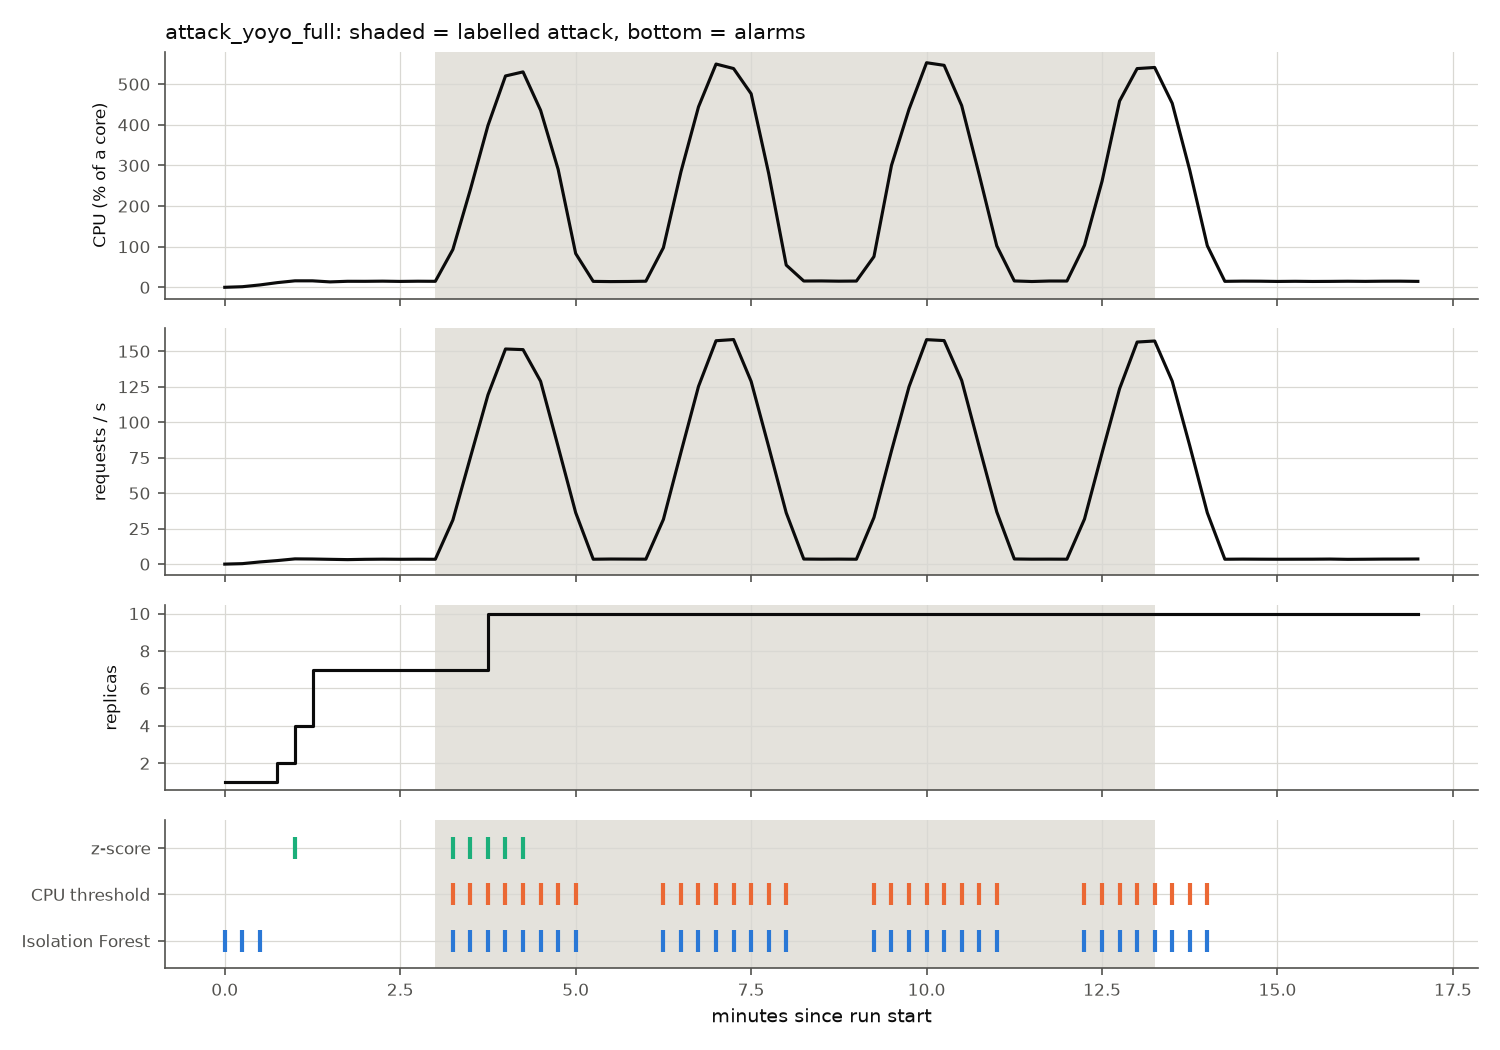
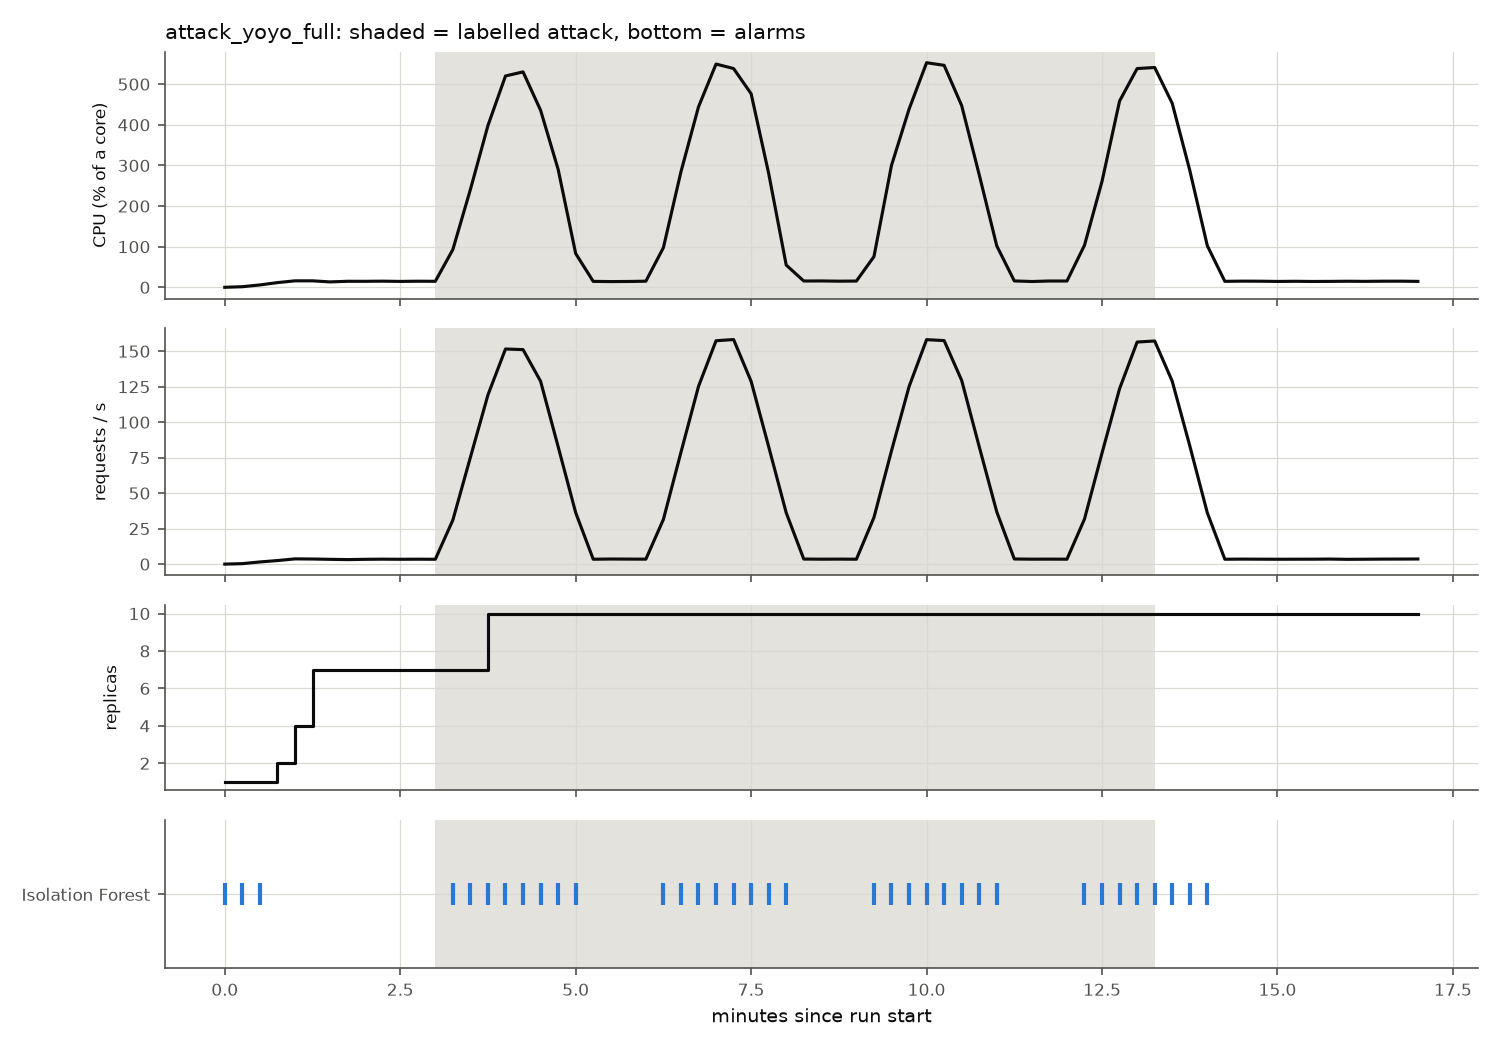
Remove the CPU threshold and z-score baselines, evaluate the Isolation Forest only

diff --git a/evaluate.py b/evaluate.py
@@ -1,5 +1,5 @@
 #!/usr/bin/env python3
-"""Train, tune and evaluate the Isolation Forest against two baselines, following the course
+"""Train, tune and evaluate the Isolation Forest, following the course
 pipeline: split -> fit preprocessing on train only -> train -> tune on validation -> finalize ->
 evaluate once on test.
 
@@ -13,7 +13,7 @@ Steps
   3  train on normal rows of the train runs only; the scaler is fitted on those rows only
   4  contamination sweep on validation (contamination = share of NORMAL training rows that the
      model is allowed to flag, because the training data has no attacks)
-  5  tune the baselines on the same validation runs; feature-set ablation; plots; report
+  5  feature-set ablation on the same validation runs; plots; report
   6  (--final) refit with the chosen settings on train + the normal validation runs
   7  (--final) score the test runs once, write the metrics, save the model
 
@@ -24,7 +24,7 @@ because the autoscaler is still recovering from the attack then. The Isolation F
 its numbers are the mean (and std) over 5 seeds.
 
 Outputs in --out (default results/): report.md, selected.json, contamination_sweep.csv/.png,
-baselines.csv, ablation.csv, timeline_<run>.png, and after --final: test_metrics.csv,
+validation_metrics.csv, ablation.csv, timeline_<run>.png, and after --final: test_metrics.csv,
 final_report.md, test_log.csv, and data/isolation_forest_v2.joblib. Both steps also save
 <split>_confusion_matrix.png, <split>_roc_curve.png and <split>_pr_curve.png (lecture slides 9-12).
 """
@@ -62,8 +62,6 @@ FEATURE_SETS = {
 DEFAULT_FEATURES = "B_extended"
 CONTAMINATIONS = [0.005, 0.01, 0.02, 0.03, 0.05, 0.075, 0.1, 0.15, 0.2]
 SEEDS = [0, 1, 2, 3, 4]
-Z_WINDOWS = [8, 20, 40]                  # rows (2, 5, 10 minutes at 15 s)
-Z_KS = np.round(np.arange(1.5, 8.01, 0.25), 2)
 MODEL_PATH = os.path.join("data", "isolation_forest_v2.joblib")
 
 # chart colours (categorical slots 1-4 of the default validated palette)
@@ -173,42 +171,6 @@ def iforest_outputs(model, X):
     return model.predict(X) == -1, -model.score_samples(X)
 
 
-def zscore(df, window):
-    """Largest upward z-score of CPU and request rate vs the previous `window` rows of the same run."""
-    out = np.zeros(len(df))
-    for _, g in df.groupby("run"):
-        zs = []
-        for c in ["cpu_utilization", "request_rate"]:
-            x = g[c]
-            prev = x.shift(1).rolling(window, min_periods=4)
-            sd = np.maximum(prev.std(), 0.05 * prev.mean().abs() + 0.5)  # floor: steady signals
-            zs.append(((x - prev.mean()) / sd).fillna(0))
-        out[g.index.to_numpy()] = np.maximum(*zs)
-    return out
-
-
-def tune_threshold(df, score, keep, candidates):
-    best = None
-    for t in candidates:
-        m = evaluate_flags(df, score > t, score, keep)
-        if best is None or (m["f1"], -m["fpr"]) > (best[1]["f1"], -best[1]["fpr"]):
-            best = (float(t), m)
-    return best
-
-
-def tune_baselines(val, keep):
-    cpu = val["cpu_utilization"].to_numpy()
-    cands = np.unique(np.quantile(cpu, np.linspace(0.3, 0.999, 300)))
-    t_cpu, m_cpu = tune_threshold(val, cpu, keep, cands)
-    best_z = None
-    for w in Z_WINDOWS:
-        z = zscore(val, w)
-        k, m = tune_threshold(val, z, keep, Z_KS)
-        if best_z is None or (m["f1"], -m["fpr"]) > (best_z[2]["f1"], -best_z[2]["fpr"]):
-            best_z = (w, k, m)
-    return {"cpu_threshold": t_cpu, "z_window": best_z[0], "z_k": best_z[1]}, m_cpu, best_z[2]
-
-
 def sweep(train_X, val, val_X, keep):
     rows = []
     for c in CONTAMINATIONS:
@@ -264,7 +226,7 @@ def plot_eval_figs(df, keep, dets, prefix, out_dir, synthetic):
     tag = "  [SYNTHETIC]" if synthetic else ""
     split = prefix.rstrip("_")
 
-    fig, axes = plt.subplots(1, len(dets), figsize=(3.6 * len(dets), 3.4))
+    fig, axes = plt.subplots(1, len(dets), figsize=(max(3.6 * len(dets), 5.5), 3.4))
     for ax, (name, flag, _, _) in zip(np.atleast_1d(axes), dets):
         f = np.asarray(flag, dtype=bool)[keep]
         # same layout as the lecture: rows = actual (attack, normal), columns = predicted (attack, normal)
@@ -437,13 +399,10 @@ def tuning(args):
                f"Isolation Forest on validation ({args.features}), mean of {len(SEEDS)} seeds"
                + ("  [SYNTHETIC]" if synthetic else ""))
 
-    print("step 5: baselines and feature ablation")
-    params, m_cpu, m_z = tune_baselines(val, keep)
+    print("step 5: feature ablation")
     if_val = sw[sw["contamination"] == chosen].iloc[0].to_dict()
-    base_rows = [dict(detector=f"Isolation Forest ({args.features}, c={chosen:g})", **if_val),
-                 dict(detector=f"CPU threshold (> {params['cpu_threshold']:.1f}%)", **m_cpu),
-                 dict(detector=f"rolling z-score (window {params['z_window']}, k={params['z_k']})", **m_z)]
-    pd.DataFrame(base_rows).to_csv(os.path.join(args.out, "baselines.csv"), index=False)
+    val_rows = [dict(detector=f"Isolation Forest ({args.features}, c={chosen:g})", **if_val)]
+    pd.DataFrame(val_rows).to_csv(os.path.join(args.out, "validation_metrics.csv"), index=False)
 
     abl = []
     for name, cols in FEATURE_SETS.items():
@@ -459,23 +418,16 @@ def tuning(args):
 
     if_outs = [iforest_outputs(fit_iforest(tr[feats], chosen, s), val[feats]) for s in SEEDS]
     f_if = if_outs[0][0]
-    z = zscore(val, params["z_window"])
-    cpu_v = val["cpu_utilization"].to_numpy()
-    run_rows = per_run(val, keep, [("Isolation Forest", if_outs), ("CPU threshold", [(cpu_v > params["cpu_threshold"], cpu_v)]),
-                                   ("z-score", [(z > params["z_k"], z)])])
+    run_rows = per_run(val, keep, [("Isolation Forest", if_outs)])
     pd.DataFrame(run_rows).to_csv(os.path.join(args.out, "per_run_validation.csv"), index=False)
-    plot_eval_figs(val, keep, [("Isolation Forest", f_if, if_outs[0][1], C_IF),
-                               ("CPU threshold", cpu_v > params["cpu_threshold"], cpu_v, C_CPU),
-                               ("z-score", z > params["z_k"], z, C_Z)], "validation_", args.out, synthetic)
+    plot_eval_figs(val, keep, [("Isolation Forest", f_if, if_outs[0][1], C_IF)], "validation_", args.out, synthetic)
     for run_name, run in val.groupby("run"):
         idx = run.index.to_numpy()
-        plot_timeline(run, [("Isolation Forest", f_if[idx], C_IF),
-                            ("CPU threshold", val["cpu_utilization"].to_numpy()[idx] > params["cpu_threshold"], C_CPU),
-                            ("z-score", z[idx] > params["z_k"], C_Z)],
+        plot_timeline(run, [("Isolation Forest", f_if[idx], C_IF)],
                       os.path.join(args.out, f"timeline_{run_name}.png"), synthetic)
 
     selected = dict(features=args.features, feature_list=feats, contamination=chosen, grace_s=args.grace,
-                    seeds=SEEDS, data=args.data, synthetic=synthetic, **params,
+                    seeds=SEEDS, data=args.data, synthetic=synthetic,
                     chosen_on=time.strftime("%Y-%m-%d %H:%M"))
     with open(os.path.join(args.out, "selected.json"), "w") as f:
         json.dump(selected, f, indent=2)
@@ -496,8 +448,8 @@ def tuning(args):
             f"\nChosen: **{chosen:g}**. Plot: `contamination_sweep.png`.\n",
             "Confusion matrices, ROC and precision-recall curves on validation (Isolation Forest seed 0): "
             "`validation_confusion_matrix.png`, `validation_roc_curve.png`, `validation_pr_curve.png`.\n",
-            "## Detectors on validation (each tuned on these runs)\n",
-            table(base_rows, [("detector", lambda r: r["detector"])] + METRIC_COLS),
+            "## Model on validation\n",
+            table(val_rows, [("detector", lambda r: r["detector"])] + METRIC_COLS),
             "\n## Per workload (each validation run)\n",
             "FPR on a normal run = share of its rows flagged by mistake. Recall and episodes only apply to attack runs.\n",
             table(run_rows, RUN_COLS),
@@ -511,8 +463,7 @@ def tuning(args):
             "\nNext: when these choices are final, run `python3 evaluate.py --final` once.\n"]
     with open(os.path.join(args.out, "report.md"), "w") as f:
         f.write("\n".join(rep))
-    print(f"chosen contamination {chosen:g}; validation F1 IF {if_val['f1']:.3f}, "
-          f"CPU threshold {m_cpu['f1']:.3f}, z-score {m_z['f1']:.3f}")
+    print(f"chosen contamination {chosen:g}; validation F1 {if_val['f1']:.3f}")
     print(f"wrote {args.out}/report.md (and csv/png files)")
 
 
@@ -546,12 +497,7 @@ def final(args):
         models.append(m)
         per_seed.append(evaluate_flags(test, *iforest_outputs(m, test[feats]), keep))
     if_mean, if_std = mean_std(per_seed)
-    cpu = test["cpu_utilization"].to_numpy()
-    z = zscore(test, sel["z_window"])
-    m_cpu = evaluate_flags(test, cpu > sel["cpu_threshold"], cpu, keep)
-    m_z = evaluate_flags(test, z > sel["z_k"], z, keep)
-    rows = [dict(detector="Isolation Forest", **if_mean), dict(detector="CPU threshold", **m_cpu),
-            dict(detector="rolling z-score", **m_z)]
+    rows = [dict(detector="Isolation Forest", **if_mean)]
     pd.DataFrame(rows).to_csv(os.path.join(args.out, "test_metrics.csv"), index=False)
 
     by_kind = []
@@ -561,24 +507,15 @@ def final(args):
         ks = keep[sub_idx]
         res = [evaluate_flags(sub, *iforest_outputs(mm, sub[feats]), ks) for mm in models]
         by_kind.append(dict(detector=f"Isolation Forest, {kind} only", **mean_std(res)[0]))
-        by_kind.append(dict(detector=f"CPU threshold, {kind} only",
-                            **evaluate_flags(sub, sub["cpu_utilization"] > sel["cpu_threshold"],
-                                             sub["cpu_utilization"], ks)))
-        zz = z[sub_idx]
-        by_kind.append(dict(detector=f"z-score, {kind} only", **evaluate_flags(sub, zz > sel["z_k"], zz, ks)))
 
     if_outs = [iforest_outputs(mm, test[feats]) for mm in models]
     f_if = if_outs[0][0]
-    run_rows = per_run(test, keep, [("Isolation Forest", if_outs), ("CPU threshold", [(cpu > sel["cpu_threshold"], cpu)]),
-                                    ("z-score", [(z > sel["z_k"], z)])])
+    run_rows = per_run(test, keep, [("Isolation Forest", if_outs)])
     pd.DataFrame(run_rows).to_csv(os.path.join(args.out, "per_run_test.csv"), index=False)
-    plot_eval_figs(test, keep, [("Isolation Forest", f_if, if_outs[0][1], C_IF),
-                                ("CPU threshold", cpu > sel["cpu_threshold"], cpu, C_CPU),
-                                ("z-score", z > sel["z_k"], z, C_Z)], "test_", args.out, synthetic)
+    plot_eval_figs(test, keep, [("Isolation Forest", f_if, if_outs[0][1], C_IF)], "test_", args.out, synthetic)
     for run_name, run in test.groupby("run"):
         idx = run.index.to_numpy()
-        plot_timeline(run, [("Isolation Forest", f_if[idx], C_IF), ("CPU threshold", cpu[idx] > sel["cpu_threshold"], C_CPU),
-                            ("z-score", z[idx] > sel["z_k"], C_Z)],
+        plot_timeline(run, [("Isolation Forest", f_if[idx], C_IF)],
                       os.path.join(args.out, f"test_timeline_{run_name}.png"), synthetic)
 
     if not synthetic:
@@ -594,9 +531,7 @@ def final(args):
     if synthetic:
         rep.append("> **SYNTHETIC practice data from simulate_runs.py. These numbers are not results.**\n")
     rep += [f"Settings fixed on validation ({sel['chosen_on']}): features {sel['features']} "
-            f"({', '.join(feats)}), contamination {sel['contamination']:g}, CPU threshold "
-            f"{sel['cpu_threshold']:.1f}%, z-score window {sel['z_window']} rows, k={sel['z_k']}, "
-            f"grace {sel['grace_s']:.0f} s.\n",
+            f"({', '.join(feats)}), contamination {sel['contamination']:g}, grace {sel['grace_s']:.0f} s.\n",
             f"Isolation Forest refitted on {len(fit_rows)} normal rows: {', '.join(sorted(fit_rows['run'].unique()))}.\n",
             "## Test split\n", data_summary(df[df["split"] == "test"]),
             "\n## All test runs\n", table(rows, [("detector", lambda r: r["detector"])] + METRIC_COLS),
@@ -613,9 +548,10 @@ def final(args):
     with open(os.path.join(args.out, "final_report.md"), "w") as f:
         f.write("\n".join(rep))
     log = pd.DataFrame([dict(when=time.strftime("%Y-%m-%d %H:%M:%S"), data=args.data, features=sel["features"],
-                             contamination=sel["contamination"], f1_iforest=if_mean["f1"],
-                             f1_cpu=m_cpu["f1"], f1_z=m_z["f1"])])
-    log.to_csv(log_path, mode="a", header=not os.path.exists(log_path), index=False)
+                             contamination=sel["contamination"], f1_iforest=if_mean["f1"])])
+    if os.path.exists(log_path):
+        log = pd.concat([pd.read_csv(log_path), log], ignore_index=True)
+    log.to_csv(log_path, index=False)
     for r in rows:
         print(f"  {r['detector']:<18} precision {r['precision']:.3f}  recall {r['recall']:.3f}  "
               f"F1 {r['f1']:.3f}  FPR {r['fpr']:.3f}  episodes {r['episodes_detected']:.1f}/{r['episodes']:.0f}")

diff --git a/results/final_report.md b/results/final_report.md
@@ -1,6 +1,6 @@
 # Test results (steps 6-7, evaluated once)
 
-Settings fixed on validation (2026-11-04 21:47): features B_extended (replicas, cpu_utilization, request_rate, cpu_per_request, latency_p95_s, replica_changes_5m, cpu_std_5m), contamination 0.03, CPU threshold 34.5%, z-score window 20 rows, k=2.0, grace 60 s.
+Settings fixed on validation (2026-11-05 15:34): features B_extended (replicas, cpu_utilization, request_rate, cpu_per_request, latency_p95_s, replica_changes_5m, cpu_std_5m), contamination 0.03, grace 60 s.
 
 Isolation Forest refitted on 215 normal rows: normal_ramp_full, normal_steady_full, normal_wave_full.
 
@@ -18,8 +18,6 @@ Isolation Forest refitted on 215 normal rows: normal_ramp_full, normal_steady_fu
 | detector | precision | recall | F1 | FPR | ROC AUC | avg precision | episodes found | mean latency s |
 |---|---|---|---|---|---|---|---|---|
 | Isolation Forest | 0.784 | 0.769 | 0.776 | 0.106 | 0.845 | 0.770 | 3.0/3 | 15 |
-| CPU threshold | 0.806 | 0.769 | 0.787 | 0.092 | 0.891 | 0.885 | 3.0/3 | 15 |
-| rolling z-score | 0.692 | 0.277 | 0.396 | 0.062 | 0.715 | 0.625 | 3.0/3 | 20 |
 
 
 Isolation Forest: mean of 5 seeds (std: precision ±0.009, recall ±0.000, f1 ±0.005, fpr ±0.006).
@@ -34,14 +32,8 @@ FPR on a normal run = share of its rows flagged by mistake. Recall and episodes 
 | run | detector | FPR | recall | episodes found | mean latency s |
 |---|---|---|---|---|---|
 | attack_heavy_full | Isolation Forest | 0.045 | 0.917 | 2.0/2 | 15 |
-| attack_heavy_full | CPU threshold | 0.000 | 0.917 | 2.0/2 | 15 |
-| attack_heavy_full | z-score | 0.000 | 0.542 | 2.0/2 | 22 |
 | attack_yoyo_full | Isolation Forest | 0.108 | 0.683 | 1.0/1 | 15 |
-| attack_yoyo_full | CPU threshold | 0.000 | 0.683 | 1.0/1 | 15 |
-| attack_yoyo_full | z-score | 0.042 | 0.122 | 1.0/1 | 15 |
 | normal_bursts_full | Isolation Forest | 0.158 | n/a | - | n/a |
-| normal_bursts_full | CPU threshold | 0.211 | n/a | - | n/a |
-| normal_bursts_full | z-score | 0.123 | n/a | - | n/a |
 
 
 ## Per attack type (normal test rows + that attack's rows)
@@ -49,11 +41,7 @@ FPR on a normal run = share of its rows flagged by mistake. Recall and episodes 
 | detector | precision | recall | F1 | FPR | ROC AUC | avg precision | episodes found | mean latency s |
 |---|---|---|---|---|---|---|---|---|
 | Isolation Forest, heavy only | 0.615 | 0.917 | 0.736 | 0.106 | 0.944 | 0.704 | 2.0/2 | 15 |
-| CPU threshold, heavy only | 0.647 | 0.917 | 0.759 | 0.092 | 0.937 | 0.911 | 2.0/2 | 15 |
-| z-score, heavy only | 0.619 | 0.542 | 0.578 | 0.062 | 0.906 | 0.665 | 2.0/2 | 22 |
 | Isolation Forest, yoyo only | 0.670 | 0.683 | 0.676 | 0.106 | 0.787 | 0.661 | 1.0/1 | 15 |
-| CPU threshold, yoyo only | 0.700 | 0.683 | 0.691 | 0.092 | 0.865 | 0.814 | 1.0/1 | 15 |
-| z-score, yoyo only | 0.385 | 0.122 | 0.185 | 0.062 | 0.603 | 0.400 | 1.0/1 | 15 |
 
 
 The yo-yo episode is labelled as one window including its quiet halves, so its row recall understates detection; episode recall is the fairer figure. Episode counts are small.

diff --git a/results/report.md b/results/report.md
@@ -38,13 +38,11 @@ Chosen: **0.03**. Plot: `contamination_sweep.png`.
 
 Confusion matrices, ROC and precision-recall curves on validation (Isolation Forest seed 0): `validation_confusion_matrix.png`, `validation_roc_curve.png`, `validation_pr_curve.png`.
 
-## Detectors on validation (each tuned on these runs)
+## Model on validation
 
 | detector | precision | recall | F1 | FPR | ROC AUC | avg precision | episodes found | mean latency s |
 |---|---|---|---|---|---|---|---|---|
 | Isolation Forest (B_extended, c=0.03) | 0.846 | 0.917 | 0.880 | 0.031 | 0.912 | 0.715 | 2.0/2 | 15 |
-| CPU threshold (> 34.5%) | 1.000 | 0.917 | 0.957 | 0.000 | 0.963 | 0.941 | 2.0/2 | 15 |
-| rolling z-score (window 20, k=2.0) | 0.684 | 0.542 | 0.605 | 0.046 | 0.890 | 0.707 | 2.0/2 | 22 |
 
 
 ## Per workload (each validation run)
@@ -54,11 +52,7 @@ FPR on a normal run = share of its rows flagged by mistake. Recall and episodes 
 | run | detector | FPR | recall | episodes found | mean latency s |
 |---|---|---|---|---|---|
 | attack_flood_full | Isolation Forest | 0.041 | 0.917 | 2.0/2 | 15 |
-| attack_flood_full | CPU threshold | 0.000 | 0.917 | 2.0/2 | 15 |
-| attack_flood_full | z-score | 0.000 | 0.542 | 2.0/2 | 22 |
 | normal_wave_full | Isolation Forest | 0.025 | n/a | - | n/a |
-| normal_wave_full | CPU threshold | 0.000 | n/a | - | n/a |
-| normal_wave_full | z-score | 0.074 | n/a | - | n/a |
 
 
 ## Feature ablation (validation, each set with its own best contamination)

diff --git a/results_pilot/report.md b/results_pilot/report.md
@@ -33,13 +33,11 @@ Chosen: **0.2**. Plot: `contamination_sweep.png`.
 
 Confusion matrices, ROC and precision-recall curves on validation (Isolation Forest seed 0): `validation_confusion_matrix.png`, `validation_roc_curve.png`, `validation_pr_curve.png`.
 
-## Detectors on validation (each tuned on these runs)
+## Model on validation
 
 | detector | precision | recall | F1 | FPR | ROC AUC | avg precision | episodes found | mean latency s |
 |---|---|---|---|---|---|---|---|---|
 | Isolation Forest (B_extended, c=0.2) | 0.479 | 0.520 | 0.493 | 0.267 | 0.667 | 0.551 | 1.4/2 | 16 |
-| CPU threshold (> 15.7%) | 1.000 | 0.900 | 0.947 | 0.000 | 0.967 | 0.967 | 2.0/2 | 9 |
-| rolling z-score (window 8, k=2.25) | 1.000 | 0.700 | 0.824 | 0.000 | 0.893 | 0.891 | 2.0/2 | 24 |
 
 
 ## Per workload (each validation run)
@@ -49,8 +47,6 @@ FPR on a normal run = share of its rows flagged by mistake. Recall and episodes 
 | run | detector | FPR | recall | episodes found | mean latency s |
 |---|---|---|---|---|---|
 | attack_flood | Isolation Forest | 0.267 | 0.520 | 1.4/2 | 16 |
-| attack_flood | CPU threshold | 0.000 | 0.900 | 2.0/2 | 9 |
-| attack_flood | z-score | 0.000 | 0.700 | 2.0/2 | 24 |
 
 
 ## Feature ablation (validation, each set with its own best contamination)

diff --git a/kubernetes-setup-notes.md b/kubernetes-setup-notes.md
@@ -279,7 +279,7 @@ runs are skipped, the interrupted one starts over.
 python3 evaluate.py
 ```
 
-Read `results/report.md` (contamination sweep, baselines, feature ablation) and the plots. When
+Read `results/report.md` (contamination sweep, feature ablation) and the plots. When
 the choices are final, run the test evaluation ONCE:
 
 ```bash
